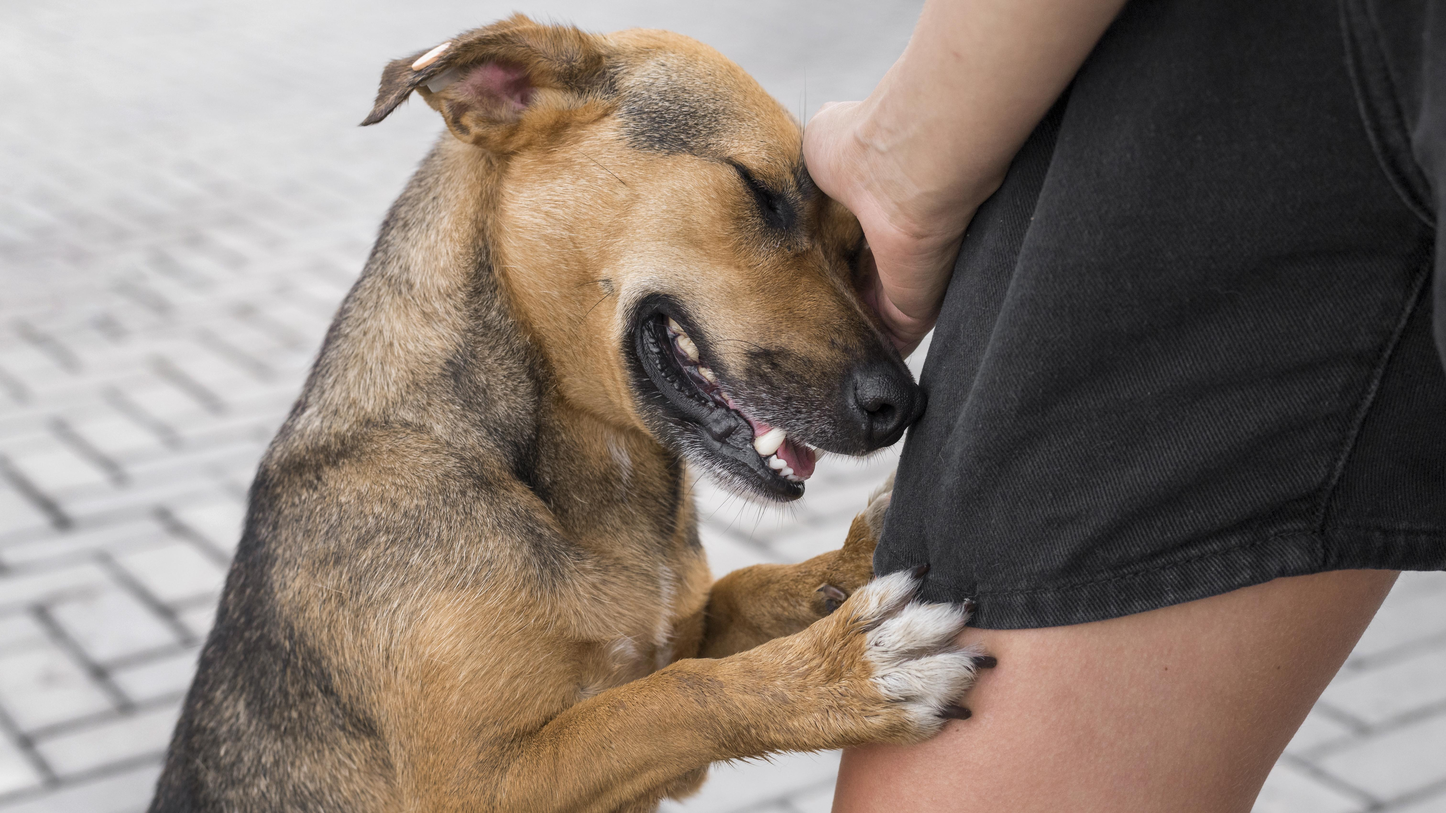
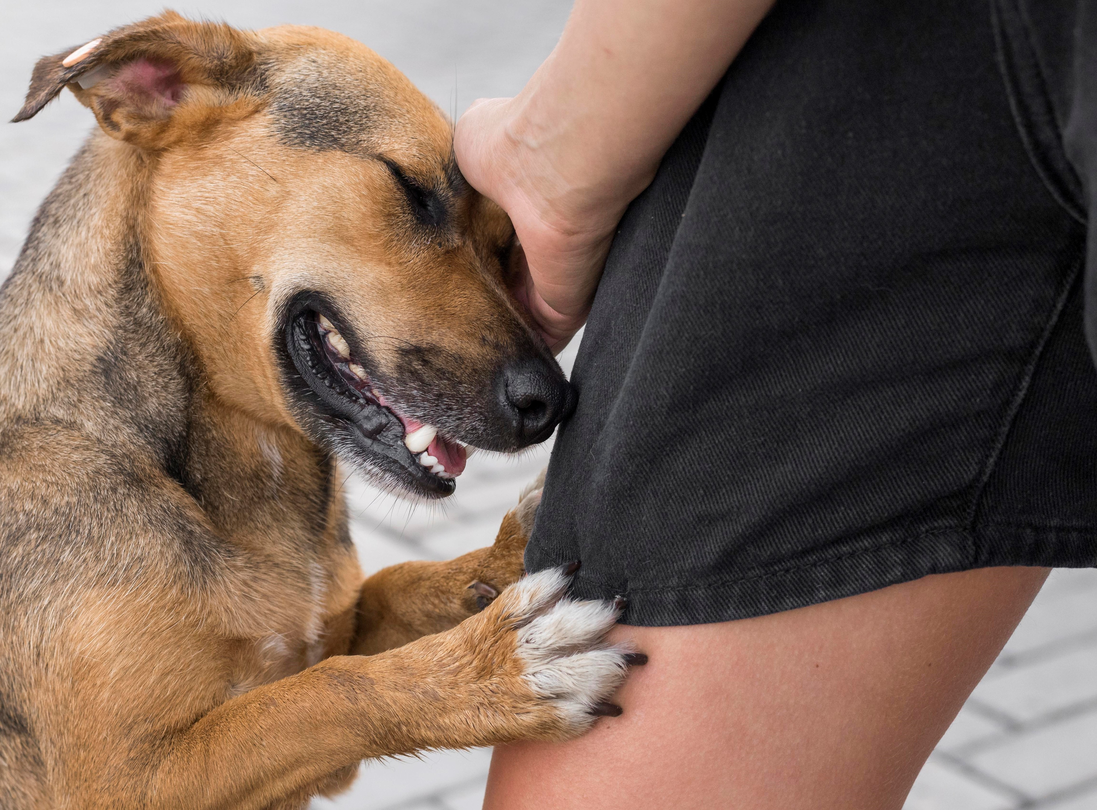
Corrigido tamanhos incorretos de fotos na tela de index

diff --git a/src/main/resources/static/css/style-index.css b/src/main/resources/static/css/style-index.css
@@ -203,17 +203,14 @@ video{
 }
 
 .img img{
-  width: 100%;
+  width: auto;
   height: 100%;
 }
 
 .img2 img{
-  width: 100%;
+  width: auto;
   height: 100%;
 }
-
-
-
 
 .filtro-foto{
   width: 100%;
